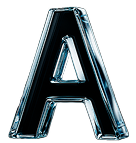
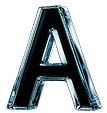
fix:main-1920

diff --git a/css/8_tomato_main.css b/css/8_tomato_main.css
@@ -22,10 +22,10 @@
   color: #FFFFFF;
   text-align: center;
   font-feature-settings: 'liga' off, 'clig' off;
-  font-size: clamp(120px, 12vw, 240px);
+  font-size: clamp(120px, 12vw, 180px);
   font-style: normal;
   font-weight: 900;
-  line-height: clamp(120px, 12vw, 220px);
+  line-height: clamp(120px, 12vw, 180px);
   text-transform: uppercase;
   text-shadow: 0 0 18px rgba(255, 255, 255, 0.18);
   opacity: 0;
@@ -69,8 +69,8 @@
 }
 
 .ani-o .ani-img {
-  width: 176px;
-  height: 229px;
+  width: calc(1em * 0.98);
+  height: calc(1em * 1.27);
 }
 
 .ani-o .ani-img {
@@ -90,8 +90,8 @@
 }
 
 .ani-oo .ani-img {
-  width: 269px;
-  height: 140px;
+  width: calc(1em * 1.5);
+  height: calc(1em * 0.78);
 }
 
 .ani-oo .ani-img {
@@ -115,8 +115,8 @@
 
 .gif-a .gif-img,
 .gif-i .gif-img {
-  width: 130px;
-  height: 130px;
+  width: calc(1em * 0.9);
+  height: calc(1em * 0.9);
 }
 
 .fyig-rotator {
@@ -407,8 +407,7 @@
 }
 
 .intro-txt p {
-  font-size: clamp(18px, 1.6vw, 30px);
-  font-family: Pretendard, "Noto Sans KR";
+  font-size: clamp(18px, 1.6vw, 28px);
   font-weight: 400;
   line-height: clamp(28px, 2.2vw, 40px);
   text-transform: uppercase;
@@ -667,7 +666,7 @@
 .event-more {
   font-size: 20px;
   font-weight: 400;
-  color: var(--accent);
+  color: var(--black);
   margin-top: auto;
   align-self: flex-end;
   text-align: right;
@@ -675,7 +674,7 @@
 }
 
 .event-more:hover {
-  color: var(--accent);
+  color: var(--blue);
 }
 
 .event-card::before {
@@ -706,6 +705,10 @@
   width: min(480px, 50%);
   position: relative;
   min-height: clamp(360px, 34vw, 520px);
+  display: flex;
+  align-items: center;
+  justify-content: center;
+  --cal-overlap-shift: 13vw;
 }
 
 .cal-right {
@@ -766,6 +769,7 @@
 
 .cal-card {
   position: absolute;
+  left: 50%;
   width: min(460px, 88%);
   height: auto;
   padding: 16px;
@@ -775,23 +779,24 @@
   flex-direction: column;
   gap: 20px;
   color: var(--black);
+  transform: translateX(-50%);
 }
 
 .cal-card--back {
-  left: 0;
   top: 0;
   z-index: 1;
   background: var(--white);
   opacity: 0.95;
+  transform: translateX(calc(-50% - var(--cal-overlap-shift) / 2));
 }
 
 .cal-card--front {
-  left: 13vw;
   top: clamp(26px, 3.5vw, 56px);
   z-index: 2;
 
   background: rgba(255, 255, 255, 0.82);
   backdrop-filter: blur(20px);
+  transform: translate(calc(-50% + var(--cal-overlap-shift) / 2), 0);
 }
 
 .cal-month-header {
@@ -888,18 +893,21 @@
 }
 
 .cta-title {
-  font-size:36px;
+  font-size:40px;
   margin: 0;
 }
 
 .lab-scroll-section {
-  width: 100vw;
-  margin: 0 calc(-50vw + 50%);
-  padding: 40px 0;
+  padding: clamp(48px, 7vw, 72px) 16px clamp(32px, 6vw, 48px);
+  margin: 0 auto 56px;
   display: flex;
   flex-direction: column;
-  gap: 30px;
+  gap: 24px;
   position: relative;
+  overflow: hidden;
+  width: 100%;
+  max-width: 1200px;
+  align-self: center;
 }
 
 .scroll-wrapper {
@@ -917,10 +925,12 @@
   left: 0;
   top: 0;
   background: linear-gradient(
-    90deg, 
-    var(--bg) 0%, 
-    rgba(255, 255, 255, 0) 45%, 
-    rgba(255, 255, 255, 0) 55%, 
+    90deg,
+    var(--bg) 0%,
+    var(--bg) 16%,
+    rgba(255, 255, 255, 0) 45%,
+    rgba(255, 255, 255, 0) 55%,
+    var(--bg) 84%,
     var(--bg) 100%
   );
   z-index: 2;
@@ -932,6 +942,7 @@
   gap: 30px;
   animation-timing-function: linear;
   animation-iteration-count: infinite;
+  will-change: transform;
 }
 
 .row-1 .scroll-content {
@@ -943,20 +954,20 @@
 }
 
 @keyframes scrollRight {
-  0% {
-    transform: translateX(0);
-  }
-  100% {
+  from {
     transform: translateX(-50%);
+  }
+  to {
+    transform: translateX(0);
   }
 }
 
 @keyframes scrollLeft {
-  0% {
-    transform: translateX(-50%);
-  }
-  100% {
+  from {
     transform: translateX(0);
+  }
+  to {
+    transform: translateX(-50%);
   }
 }
 
